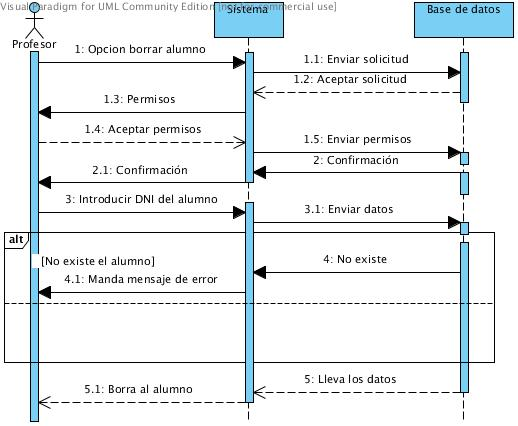
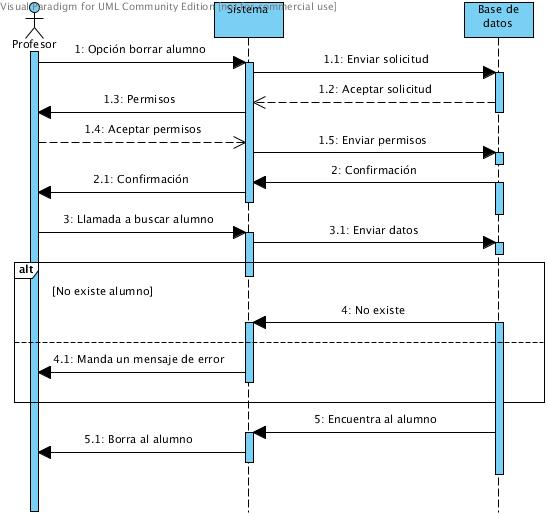
Arreglos

Changed region(s): [[0.0, 0.0, 1.0, 1.0], [0.1544, 0.8239, 0.3707, 0.946], [0.5869, 0.885, 0.7722, 0.9155]]

diff --git a/practica3/16.Cambio_lider.md b/practica3/16.Cambio_lider.md
@@ -4,6 +4,6 @@
 
 * Para ello es necesario:
 1. Dicho usuario se identifique para conseguir los permisos necesarios para acceder a esta función.
-2. Que introduzca el DNI del alumno para encontrar todos sus datos, si ese alumno no se encuentra en la base de datos se mandará un mensaje de error y volveremos a iniciar el programa.
+2. Que introduzca el DNI del alumno para encontrar todos sus datos mediante una llamada a la función Buscar alumno, si ese alumno no se encuentra en la base de datos se mandará un mensaje de error y volveremos a iniciar el programa.
 3. Confirmar que el grupo existe y si existe mostrarlo, en caso de que no exista en la base de datos se mandará un mensaje de error y volveremos a iniciar el programa.
 4. Finalmente confirmar que dicho alumno es lider del equipo.

diff --git a/practica3/06.Modificar_alumno.md b/practica3/06.Modificar_alumno.md
@@ -4,6 +4,6 @@
 
 * Para ello es necesario:
 1. Dicho usuario se identifique para conseguir los permisos necesarios para acceder a esta función.
-2. Que introduzca el DNI del alumno para encontrar todos sus datos, si ese alumno no se encuentra en la base de datos se mandará un mensaje de error y volveremos a iniciar el programa.
+2. Que introduzca el DNI del alumno para encontrar todos sus datos mediante una llamada a la función Buscar alumno, si ese alumno no se encuentra en la base de datos se mandará un mensaje de error y volveremos a iniciar el programa.
 3. Introducir los datos que se desea modificar al pedirtelo el programa.
 4. Finalmente, que dichos datos se cambien en la base de datos.

diff --git a/practica3/08.Borrar_alumno.md b/practica3/08.Borrar_alumno.md
@@ -4,5 +4,5 @@
 
 * Para ello es necesario:
 1. Dicho usuario se identifique para conseguir los permisos necesarios para acceder a esta función.
-2. Que introduzca el DNI del alumno para encontrar todos sus datos, si ese alumno no se encuentra en la base de datos se mandará un mensaje de error y volveremos a iniciar el programa.
+2. Que introduzca el DNI del alumno para encontrar todos sus datos mediante una llamada a la función Buscar alumno, si ese alumno no se encuentra en la base de datos se mandará un mensaje de error y volveremos a iniciar el programa.
 3. Finalmente, borra al alumno al cual le pertenezca el DNI introducido.
